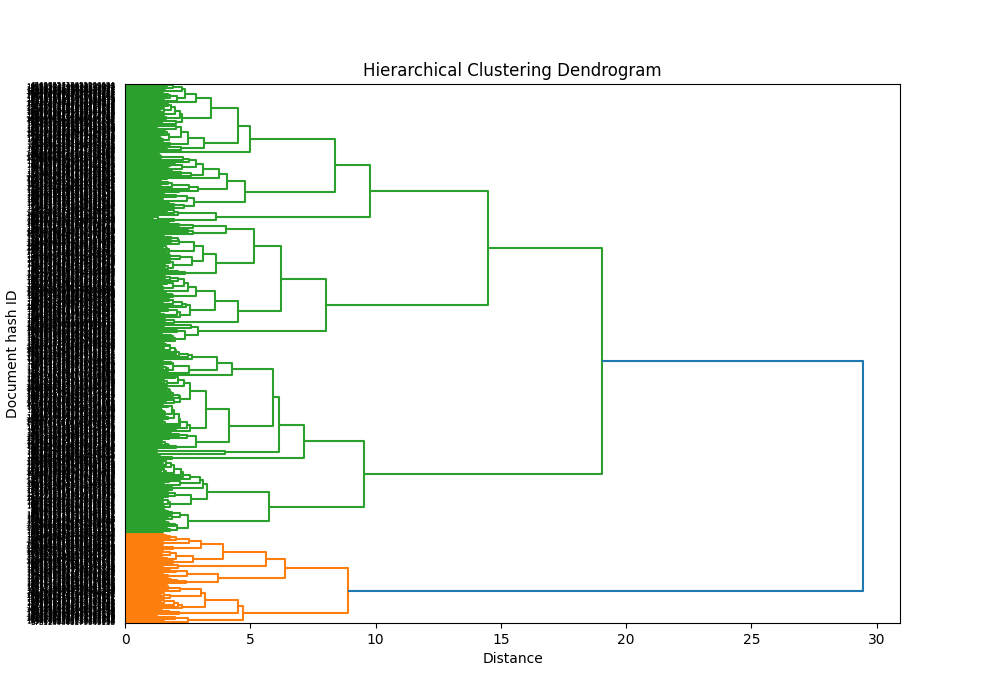
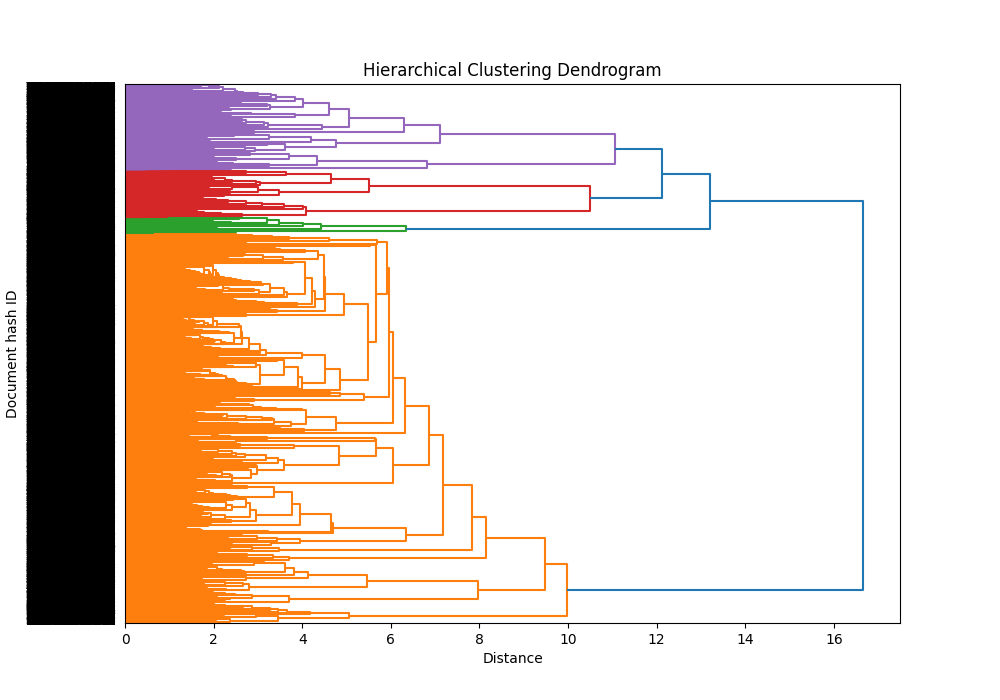
optimized for 25000 limit case

diff --git a/src/main.py b/src/main.py
@@ -5,10 +5,9 @@ from dendrogram import plot_dendrogram
 import os, subprocess, json
 from urllib import parse
 import sqlalchemy
-import nltk
 import pandas as pd
 import preprocess
-
+os.environ["TF_ENABLE_ONEDNN_OPTS"] = "0"
 with open(f"../conn_db.json", "r", encoding='utf-8') as f:
     keys = json.load(f)
 
@@ -43,48 +42,63 @@ def documents_generator(processed_df: pd.DataFrame):
             log(f"null context found in {idx}!", 1)
 
 def main():
-    log(f"retrieving dataframe from database...")
-    lim = 25000
-    log(f"with lim : {lim}")
-    df = retrieve_df(lim)
+    try:
+        log(f"retrieving dataframe from database...")
+        lim = 25000
+        log(f"with lim : {lim}")
+        df = retrieve_df(lim)
+    except Exception as e:
+        log(f"exception occurred during dataframe retrieval: {e}", 1)
+    flag = 0
+    try:
+        # 전처리
+        # null 값 처리
+        df = df.dropna()
+        log(f"null values removed")
+        # 전처리작업을 거친 df를 반환
+        log(f"processing on rows...")
+        df2 = preprocess.preprocess_df(df=df).copy()
+        log("processed columns assigned.")
+        # 문서별 정제된 title + context를 기준으로 hash값 생성
+        log(f"hash id generating...") 
+        df3 = preprocess.create_hash(df2).copy()
+        log(f"hash id assigned for each doc.")
 
-    # 전처리
-    # null 값 처리
-    df = df.dropna()
-    log(f"null values removed")
-    # 전처리작업을 거친 df를 반환
-    log(f"processing on rows...")
-    df2 = preprocess.preprocess_df(df=df).copy()
-    log("processed columns assigned.")
-    # 문서별 정제된 title + context를 기준으로 hash값 생성
-    log(f"hash id generating...") 
-    df3 = preprocess.create_hash(df2).copy()
-    log(f"hash id assigned for each doc.")
+        flag += 1 # 1
+        # Tf-idf 가중치 계산
+        log(f"tfidf calculation init")
+        tfidf_matrix = calculate_tfidf(documents_generator(df3))
+        log(f"tfidf calculation done")
 
-    # Tf-idf 가중치 계산
-    # documents_generator 필요
-    log(f"tfidf calculation init")
-    tfidf_matrix = calculate_tfidf(documents_generator(df3))
-    log(f"tfidf calculation done")
-    
-    # 코사인 유사도 계산
-    log(f"calculating cosine similarity...")
-    similarity_matrix = calculate_cosine_similarity(tfidf_matrix)
-    log(f"cosine similarity calculated")
-    
-    # 클러스터링 모델
-    log(f"clustering init")
-    clustering = clustering_model(similarity_matrix)
-    log(f"clustering done")
-    
-    # 덴드로그램 
-    # 총 문서 갯수
-    num_documents = df.shape[0]
-    # 각 문서에 대한 라벨 생성
-    document_labels = [f"{df3.iloc[x]['docKey']}" for x in range(num_documents)]
-    log(f"plotting init")
-    plot_dendrogram(clustering, document_labels)
-    log(f"plotting done")
+        flag += 1 # 2
+        # 코사인 유사도 계산
+        log(f"calculating cosine similarity...")
+        similarity_matrix = calculate_cosine_similarity(tfidf_matrix)
+        #similarity_matrix = calculate_cosine_similarity(tfidf_matrix, True)
+        log(f"cosine similarity calculated")
+
+        flag += 1 # 3
+        # 클러스터링 모델
+        log(f"clustering init")
+        clustering = clustering_model(similarity_matrix)
+        log(f"clustering done")
+
+        flag += 1 # 4
+        # 덴드로그램 
+        # 총 문서 갯수
+        num_documents = df.shape[0]
+        # 각 문서에 대한 라벨 생성
+        document_labels = [f"{df3.iloc[x]['docKey']}" for x in range(num_documents)]
+        log(f"plotting init")
+        plot_dendrogram(clustering, document_labels)
+        log(f"plotting done")
+
+    except Exception as e:
+        if flag==0: log(f"exception occurred during data preprocess: {e}", 1)
+        elif flag==1: log(f"exception occurred during tfidf calculation: {e}", 1)
+        elif flag==2: log(f"exception occurred during cosine similarity calculation: {e}", 1)
+        elif flag==3: log(f"exception occurred during clustering: {e}", 1)
+        elif flag==4: log(f"exception occurred during dendrogram plotting: {e}", 1)    
     
 if __name__ == "__main__":
     """

diff --git a/src/calculate_cosine_similarity.py b/src/calculate_cosine_similarity.py
@@ -1,4 +1,6 @@
 from sklearn.metrics.pairwise import cosine_similarity
+import tensorflow as tf
+
 def calculate_cosine_similarity(tfidf_matrix):
     """
     tfidf_matrix 'sparse matrix'를 인자로 받아
@@ -10,3 +12,28 @@ def calculate_cosine_similarity(tfidf_matrix):
     """
     similarity_matrix = cosine_similarity(tfidf_matrix)
     return similarity_matrix
+
+
+# def calculate_cosine_similarity(tfidf_matrix, use_gpu=False):
+#     if use_gpu:
+#         # GPU를 사용하여 계산하기 위해 TensorFlow GPU 설정
+#         physical_devices = tf.config.list_physical_devices('GPU')
+#         if physical_devices:
+#             tf.config.experimental.set_memory_growth(physical_devices[0], True)
+    
+#     # 희소 배열을 밀집 배열로 변환
+#     tfidf_matrix_dense = tfidf_matrix.toarray()
+    
+#     # 밀집 배열을 TensorFlow 텐서로 변환
+#     tfidf_matrix_tf = tf.constant(tfidf_matrix_dense, dtype=tf.float32)
+    
+#     # 각 벡터의 L2 norm을 계산
+#     norm = tf.norm(tfidf_matrix_tf, axis=1, keepdims=True)
+    
+#     # 각 벡터를 L2 norm으로 나누어 정규화
+#     normalized_matrix = tfidf_matrix_tf / norm
+    
+#     # 코사인 유사도 계산
+#     similarity_matrix = tf.matmul(normalized_matrix, normalized_matrix, transpose_b=True)
+    
+#     return similarity_matrix.numpy()

diff --git a/src/clustering_model.py b/src/clustering_model.py
@@ -1,5 +1,23 @@
+import numpy as np
 from scipy.cluster.hierarchy import linkage
+from scipy.spatial.distance import squareform
+
 def clustering_model(similarity_matrix):
+    # 코사인 유사도 행렬의 대각선을 1로 채워줌.
+    np.fill_diagonal(similarity_matrix, 1)
+
+    # 거리 행렬로 변환
+    distance_matrix = 1 - similarity_matrix
+    
+    # 거리 행렬을 대칭 행렬로 만들기 위해 아래와 같이 대칭행렬로 변환
+    distance_matrix_symmetric = (distance_matrix + distance_matrix.T) / 2
+    
+    # 음수 값을 0으로 만들어줌
+    distance_matrix_symmetric[distance_matrix_symmetric < 0] = 0
+    
+    # 행렬로 변환
+    condensed_distance = squareform(distance_matrix_symmetric)
+    
     # 계층적 병합 클러스터링 
-    clustering = linkage(similarity_matrix, method='ward')
-    return clustering
+    z = linkage(condensed_distance, method='ward')
+    return z
